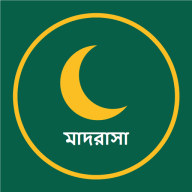
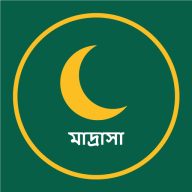
feat: rename application name to 'মাদ্রাসা ম্যানেজমেন্ট অ্যাপ'

Changed region(s): [[0.3125, 0.6875, 0.6875, 0.7812]]

diff --git a/src/app/layout.tsx b/src/app/layout.tsx
@@ -13,8 +13,8 @@ export const viewport: Viewport = {
 };
 
 export const metadata: Metadata = {
-  title: "মাদরাসা ম্যানেজমেন্ট অ্যাপ",
-  description: "মাদরাসার জন্য পূর্ণাঙ্গ ও স্বয়ংক্রিয় ডিজিটাল ম্যানেজমেন্ট প্ল্যাটফর্ম",
+  title: "মাদ্রাসা ম্যানেজমেন্ট অ্যাপ",
+  description: "মাদ্রাসার জন্য পূর্ণাঙ্গ ও স্বয়ংক্রিয় ডিজিটাল ম্যানেজমেন্ট প্ল্যাটফর্ম",
   manifest: "/manifest.json",
 };
 
